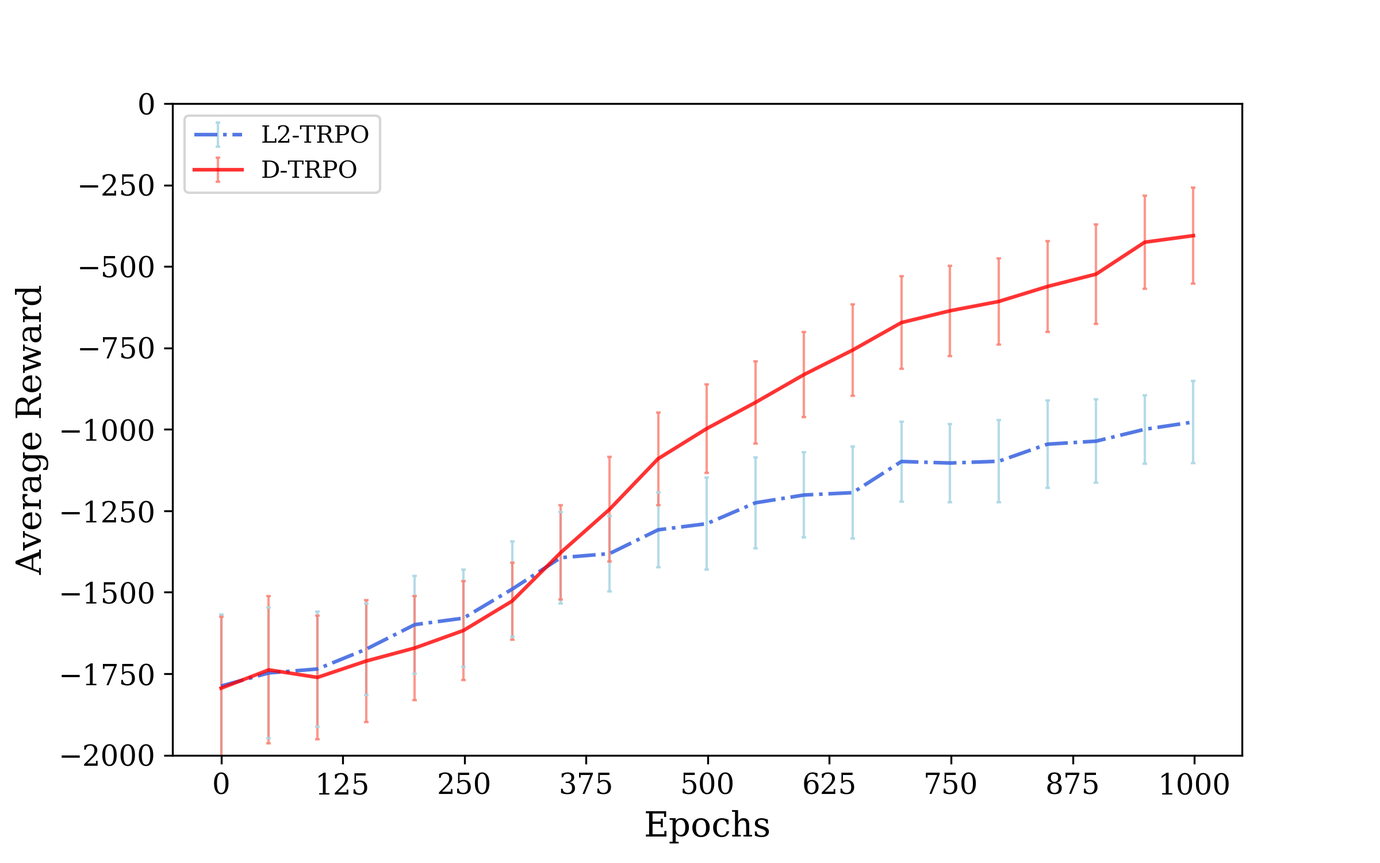
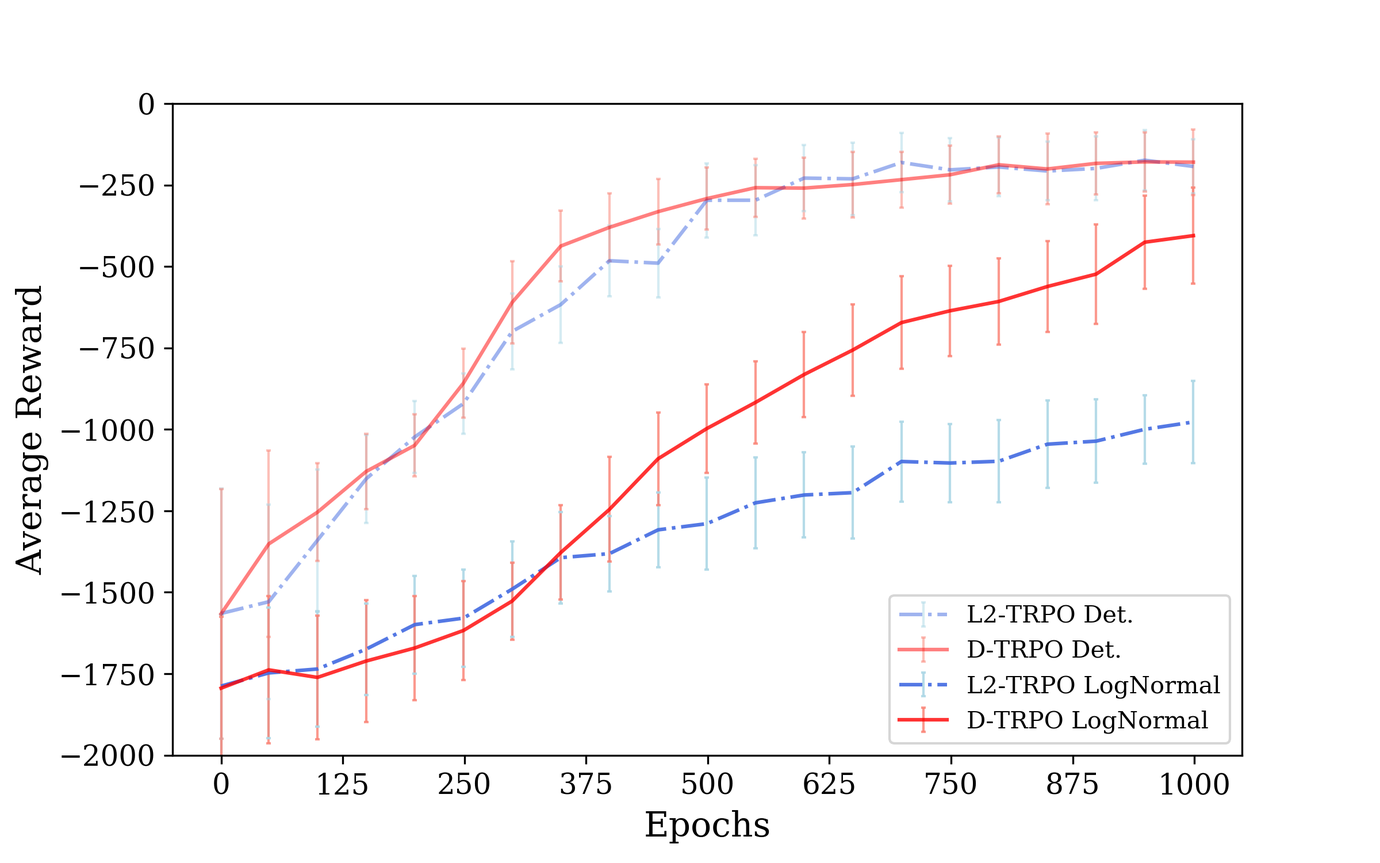
Section 6.4 Stochastic Environment

diff --git a/chapters/chapter6_results.tex b/chapters/chapter6_results.tex
@@ -45,20 +45,15 @@
                     \caption{An instance of the stochastic jump process that generates the amount of delay with $p = 0.7$. The average delay sampled is highlighted by the dashed line.}
                     \label{fig:delayp07_sampledelay}
                     
-                    \vspace{0.25cm}
-                    
                     \centering 
                     \includegraphics[width=11cm]{images/results/delayp06_sampledelay_1.png}
                     \caption{An instance of the stochastic jump process that generates the amount of delay with $p = 0.6$. The average delay sampled is highlighted by the dashed line.}
                     \label{fig:delayp06_sampledelay}
                     
-                    \vspace{0.25cm}
-                    
                     \centering
                     \includegraphics[width=11cm]{images/results/delayp05_sampledelay_1.png}
                     \caption{An instance of the stochastic jump process that generates the amount of delay with $p = 0.5$. The average delay sampled is highlighted by the dashed line.}
                     \label{fig:delayp05_sampledelay}
-                    
                 \end{figure}
                 
         \subsection{Baselines}
@@ -220,6 +215,8 @@
             % Compare the trained model on Stochastic Delays against the Min/Max Deterministic Delay
             We decided to test D-TRPO in a stochastic delay context, deploying the same settings for the networks as in the previous test. We train D-TRPO for 500 epochs composed of 5000 steps each, while each trajectory in the environment lasts for 250 steps, and simulating three different stochastic delay processes respectively with $p=0.7$, $p=0.6$ and $p=0.55$.
             \\\\
+            Figures \ref{fig:results_delayp07_1}, \ref{fig:results_delayp06_1} and \ref{fig:results_delayp05_1} illustrates the resulting training process, comparing them to D-TRPO and L2-TRPO trained with a constant delay closest to the average delay of each stochastic process, also shown in Figures \ref{fig:delayp07_sampledelay}, \ref{fig:delayp06_sampledelay} and \ref{fig:delayp05_sampledelay} respectively. Unfortunately, results are underwhelming compared with similar deterministic delays. Starting from $p=0.7$, which is compared to 3 steps of delays, D-TRPO shows an inconsistent learning process that converges to a lower average reward, even decreasing w.r.t. its peak performances. Stochastic delays with $p=0.6$ is compared to 5 steps of delays and they show similar results, while $p=0.5$ is compared with 10 steps of delay and shows very kin performances at 500 epochs, nevertheless D-TRPO with stochastic delays has already converged.
+            The reason behind inconsistent performances may be related to the higher variance the stochastic delay process induces in the input data, the extended states. While in deterministic delays we expect the extended state to have a fixed size and, consequently, the module to predict the same number of steps at each time-step, stochastic delays disrupt this process: the extended state has a different size and the same set of parameter must be able to predict for a different number of time steps. Thus, the module needs to be able to deal not only with all possible combinations of states and sequence of actions in the extended state, but also with all possible sizes of the extended state. 
             
             \begin{figure}[!b]
                 \includegraphics[width=15cm, keepaspectratio]{images/results/delayp07_comparisons_1.png}
@@ -244,72 +241,182 @@
         \subsection{Test Results}
         \label{sub:res_test_delays}
             % Describe the behaviour of the trained models when tested on different delays w.r.t. the one they were trained with, both DTRPO and L2TRPO
+            One of the strongest aspect of the proposed module is its compatibility with variable-sized input sequence, which does not only means it is possible to be trained natively with stochastic delays, but that it is also possible to test learnt model with different delay settings. In particular, we are interested in understanding how the models behave in the following two contexts:
+            \begin{itemize}
+                \setlength\itemsep{0.05em}
+                \item The module has been trained with a certain amount of deterministic delay, but it is deployed in a setting with lower or higher deterministic delay. 
+                \item The module has been trained with a certain amount of deterministic delay, but it is deployed in a stochastically delayed environment.
+            \end{itemize}
             
-            \begin{table}[!b]
-                \makebox[\textwidth][c]{
-                    \begin{tabular}{@{}ccccc@{}}
+            \subsubsection{Different Deterministic Delays Tests}
+            
+                \begin{table}[!b]
+                    \makebox[\textwidth][c]{
+                        \begin{tabular}{@{}ccccc@{}}
+                        \toprule
+                        \multicolumn{1}{c}{Test Setup} & 3-Steps Delay         & 5-Steps Delay        & 10-Steps Delay        & 15-Steps Delay        \\ \midrule
+                        3-Steps Delay                  & -168.13 $\pm$ 102.28  & -793.21 $\pm$ 160.0  & -1210.73 $\pm$ 83.8   & -1554.17 $\pm$ 96.41  \\
+                        5-Steps Delay                  & -171.12 $\pm$ 93.01   & -173.79 $\pm$ 92.2   & -1284.35 $\pm$ 85.96  & -1473.35 $\pm$ 110.78 \\
+                        10-Steps Delay                 & -256.76 $\pm$ 110.75  & -246.86 $\pm$ 117.75 & -368.42 $\pm$ 126.98  & -1342.76 $\pm$ 170.88 \\
+                        15-Steps Delay                 & -917.9 $\pm$ 87.04    & -902.22 $\pm$ 85.35  & -871.62 $\pm$ 102.85  & -956.13 $\pm$ 104.48  \\ \bottomrule
+                        \end{tabular}
+                    }
+                    \centering
+                    \caption{L2-TRPO trained on deterministic delays, denoted in the rows header, and Tested on deterministic delays, denoted in the columns header.}
+                    \label{tab:l2trpo_det_det}
+                \end{table}
+                
+                \begin{table}[!b]
+                    \makebox[\textwidth][c]{
+                        \begin{tabular}{@{}ccccc@{}}
+                        \toprule
+                        \multicolumn{1}{c}{Test Setup} & 3-Steps Delay         & 5-Steps Delay           & 10-Steps Delay          & 15-Steps Delay        \\ \midrule
+                        3-Steps Delay                  & -155.61  $\pm$ 79.02  & -831.79 $\pm$ 127.55    & -1223.33 $\pm$ 71.02    & -1631.23 $\pm$ 77.32  \\
+                        5-Steps Delay                  & -544.46  $\pm$ 105.17 & -175.36  $\pm$ 95.01    & -1161.79 $\pm$ 71.96    & -1578.53 $\pm$ 100.6  \\
+                        10-Steps Delay                 & -1120.52 $\pm$ 56.54  & -1054.0  $\pm$ 65.79    & -720.49  $\pm$ 93.85    & -1352.81 $\pm$ 105.87 \\
+                        15-Steps Delay                 & -1196.11 $\pm$ 66.82  & -1139.92 $\pm$ 83.66    & -1103.9  $\pm$ 76.88    & -912.31  $\pm$ 93.59  \\ \bottomrule
+                        \end{tabular}
+                    }
+                    \centering
+                    \caption{D-TRPO trained on deterministic delays, denoted in the rows header, and tested on deterministic delays, denoted in the columns header}
+                    \label{tab:dtrpo_det_det}
+                \end{table}
+                
+                Presented in Table \ref{tab:l2trpo_det_det}, L2-TRPO results are straightforward: each model trained with a certain amount of delay is also able to perform as well when tested on smaller delays, but it is not able to perform at all when tested on larger delays. This behaviour results from the definition of L2-TRPO loss function, which optimizes the module towards predictions of each unobserved state $s_{t-d+i}$, with $1 \leq i \leq d$, the Agent has traversed after the last observed state $s_{t-d}$, rather than only predicting the current unobserved state $s_t$. \newline
+                D-TRPO shows a similar behaviour but its performances on smaller delays, albeit better than on larger delays, are significantly affected. Results are shown in Table \ref{tab:dtrpo_det_det}. The main reason behind this behavior lies in the interaction between the Belief-Estimation module and the policy/value networks. During training, the module takes as input extended states of the same size at each time-step and the output belief representation handled to policy/value networks reflects this property in its structure. Conceptually speaking, changing the size of the extended states has the same effect on the belief representation as changing language in a translation: for example, if D-TRPO is trained with 10 steps of delay, the learnt belief representations are built in a "10-steps-delay" language. Policy and value networks learn the belief representations in this particular "language" and they are able to improve the Agent's performances during training. However, this test is specifically targeting this assumption by letting the models interact against environments with a different delays. The results is that the module is outputting a belief representation that may be correct, but it's in a different "language" than policy and value networks expect and the Agent is not able to act accordingly. \newline
+                At last, it is also possible to observe that, for both D-TRPO and L2-TRPO, in order to obtain the best possible performance we need to train the model with the same exact number of delay steps, thus confirming results from \pcite{delay:ssbm}, presented in Section \ref{subs:modelbasedapproach}.
+                
+            \subsubsection{Stochastic Delays Tests}
+            
+                \begin{table}[!b]
+                    \centering
+                    \begin{tabular}{@{}cccc@{}}
                     \toprule
-                    \multicolumn{1}{c}{Test Setup} & 3-Steps Delay         & 5-Steps Delay           & 10-Steps Delay          & 15-Steps Delay        \\ \midrule
-                    3-Steps Delay                  & -155.61  $\pm$ 79.02  & -1223.33 $\pm$ 71.02    & -1223.33 $\pm$ 71.02    & -1631.23 $\pm$ 77.32  \\
-                    5-Steps Delay                  & -544.46  $\pm$ 105.17 & -175.36  $\pm$ 95.01    & -1161.79 $\pm$ 71.96    & -1578.53 $\pm$ 100.6  \\
-                    10-Steps Delay                 & -1120.52 $\pm$ 56.54  & -1054.0  $\pm$ 65.79    & -720.49  $\pm$ 93.85    & -1352.81 $\pm$ 105.87 \\
-                    15-Steps Delay                 & -1196.11 $\pm$ 66.82  & -1139.92 $\pm$ 83.66    & -1103.9  $\pm$ 76.88    & -912.31  $\pm$ 93.59  \\ \bottomrule
+                    \multicolumn{1}{c}{Test Setup} & Delay P=0.7           & Delay P=0.6          & Delay P=0.55         \\ \midrule
+                    3-Steps Delay                  & -341.51 $\pm$ 131.67  & -609.37 $\pm$ 197.77 & -855.96 $\pm$ 238.89 \\
+                    5-Steps Delay                  & -222.01 $\pm$ 118.2   & -430.42 $\pm$ 195.56 & -715.21 $\pm$ 262.44 \\
+                    10-Steps Delay                 & -254.52 $\pm$ 147.07  & -306.1  $\pm$ 159.17 & -464.1  $\pm$ 235.38 \\
+                    15-Steps Delay                 & -896.88 $\pm$ 78.9    & -903.66 $\pm$ 83.73  & -913.02 $\pm$ 109.81 \\ \bottomrule
                     \end{tabular}
-                }
-                \centering
-                \caption{DTRPO Trained on Deterministic Delays, denoted in the header column, and Tested on Deterministic Delays, denoted in the header row.}
-            \end{table}
-            
-            \begin{table}[!b]
-                \centering
-                \begin{tabular}{@{}cccc@{}}
-                \toprule
-                \multicolumn{1}{c}{Test Setup} & Delay P=0.7           & Delay P=0.6            & Delay P=0.55          \\ \midrule
-                3-Steps Delay                  & -344.15 $\pm$ 149.93  & -610.1 $\pm$ 196.71    & -883.26 $\pm$ 226.18  \\
-                5-Steps Delay                  & -605.38 $\pm$ 112.22  & -659.11 $\pm$ 147.38   & -800.12 $\pm$ 186.03  \\
-                10-Steps Delay                 & -1100.71 $\pm$ 68.2   & -1055.5 $\pm$ 83.53    & -1045.56 $\pm$ 104.81 \\
-                15-Steps Delay                 & -1196.4 $\pm$ 72.23   & -1158.42 $\pm$ 81.97   & -1131.19 $\pm$ 96.66  \\ \bottomrule
-                \end{tabular}
-                \centering
-                \caption{DTRPO Trained on Deterministic Delays, denoted in the header column, and Tested on Stochastic Delays, denoted in the header row.}
-            \end{table}
-            
-            \begin{table}[!b]
-                \makebox[\textwidth][c]{
-                    \begin{tabular}{@{}ccccc@{}}
+                    \centering
+                    \caption{L2-TRPO trained on deterministic delays, denoted in the rows header, and tested on stochastic delays, denoted in the columns header.}
+                    \label{tab:l2trpo_det_stoch}
+                \end{table}
+                
+                \begin{table}[!b]
+                    \centering
+                    \begin{tabular}{@{}cccc@{}}
                     \toprule
-                    \multicolumn{1}{c}{Test Setup} & 3-Steps Delay         & 5-Steps Delay        & 10-Steps Delay        & 15-Steps Delay        \\ \midrule
-                    3-Steps Delay                  & -168.13 $\pm$ 102.28  & -793.21 $\pm$ 160.0  & -1210.73 $\pm$ 83.8   & -1554.17 $\pm$ 96.41  \\
-                    5-Steps Delay                  & -171.12 $\pm$ 93.01   & -173.79 $\pm$ 92.2   & -1284.35 $\pm$ 85.96  & -1473.35 $\pm$ 110.78 \\
-                    10-Steps Delay                 & -256.76 $\pm$ 110.75  & -246.86 $\pm$ 117.75 & -368.42 $\pm$ 126.98  & -1342.76 $\pm$ 170.88 \\
-                    15-Steps Delay                 & -917.9 $\pm$ 87.04    & -902.22 $\pm$ 85.35  & -871.62 $\pm$ 102.85  & -956.13 $\pm$ 104.48  \\ \bottomrule
+                    \multicolumn{1}{c}{Test Setup} & Delay P=0.7           & Delay P=0.6            & Delay P=0.55          \\ \midrule
+                    3-Steps Delay                  & -344.15 $\pm$ 149.93  & -610.1 $\pm$ 196.71    & -883.26 $\pm$ 226.18  \\
+                    5-Steps Delay                  & -605.38 $\pm$ 112.22  & -659.11 $\pm$ 147.38   & -800.12 $\pm$ 186.03  \\
+                    10-Steps Delay                 & -1100.71 $\pm$ 68.2   & -1055.5 $\pm$ 83.53    & -1045.56 $\pm$ 104.81 \\
+                    15-Steps Delay                 & -1196.4 $\pm$ 72.23   & -1158.42 $\pm$ 81.97   & -1131.19 $\pm$ 96.66  \\ \bottomrule
                     \end{tabular}
-                }
-                \centering
-                \caption{L2TRPO Trained on Deterministic Delays, denoted in the header column, and Tested on Deterministic Delays, denoted in the header row.}
-            \end{table}
-            
-            \begin{table}[!b]
-                \centering
-                \begin{tabular}{@{}cccc@{}}
-                \toprule
-                \multicolumn{1}{c}{Test Setup} & Delay P=0.7           & Delay P=0.6          & Delay P=0.55         \\ \midrule
-                3-Steps Delay                  & -341.51 $\pm$ 131.67  & -609.37 $\pm$ 197.77 & -855.96 $\pm$ 238.89 \\
-                5-Steps Delay                  & -222.01 $\pm$ 118.2   & -430.42 $\pm$ 195.56 & -715.21 $\pm$ 262.44 \\
-                10-Steps Delay                 & -254.52 $\pm$ 147.07  & -306.1  $\pm$ 159.17 & -464.1  $\pm$ 235.38 \\
-                15-Steps Delay                 & -896.88 $\pm$ 78.9    & -903.66 $\pm$ 83.73  & -913.02 $\pm$ 109.81 \\ \bottomrule
-                \end{tabular}
-                \centering
-                \caption{L2TRPO Trained on Deterministic Delays, denoted in the header column, and Tested on Stochastic Delays, denoted in the header row.}
-            \end{table}
+                    \centering
+                    \caption{D-TRPO trained on deterministic delays, denoted in the rows header, and tested on stochastic delays, denoted in the columns header.}
+                    \label{tab:dtrpo_det_stoch}
+                \end{table}
+                
+                L2-TRPO confirms results obtained in the previous test in Table \ref{tab:l2trpo_det_stoch}. When a L2-TRPO model is tested with a stochastic delay process whose samples are generally less than or equal to the training constant delay, the module is able to build precise state predictions and the model is able to perform well, in some cases even close to the performances obtained when tested on deterministic delays. Lower performances across the tests are expected: the stochastic delay process is able to sample delays that are higher than the constant delay the model is trained with, thus the module is not able to provide a precise prediction at each time-step. \newline
+                As expected, Table \ref{tab:dtrpo_det_stoch} shows that D-TRPO is suffering from the same issues discovered in the previous test. Performances are higher when the stochastic delay processes samples delays that are closer to the one the model has been trained with. While the 3-steps delay model is performing as well as the L2-TRPO counterpart, performances quickly decrease with both larger training delays and more difficult stochastic delay processes.
             
     \newpage
     \section{Stochastic Environment}
     \label{results:stochastic}
         % DTRPO vs L2TRPO
+        This last Section is dedicated to experiments in a stochastic environment. It is divided in to two sub-section: while Section \ref{sub:stoch_noise_impl} is concerned with explaining the stochastic environment implementation, Section \ref{sub:stoch_env_res} discusses the obtained results. We tested D-TRPO and L2-TRPO, both with the same hyperparameters explained in Section \ref{results:deterministic} in an environment affected by 5 steps of delay. Models are trained for 1000 epochs, each of them composed by 5000 steps for a total of 5 million steps. Single trajectories last for 250 steps. 
         
         \subsection{Stochastic Noise Implementation}
+        \label{sub:stoch_noise_impl}
         % Explain each noise
+            Stochastic environment implementation is reached by adding a stochastic perturbation to the sequence of actions chosen by the Agent while interacting in the Inverted Pendulum environment. In practice, at each time-step $t$, the Agent selects an action $a_t$, a perturbation $\epsilon_t$ is sampled from a probability distribution and the action executed in the environment is $a_t + \epsilon_t$. We implemented perturbations sampled from the following probability distributions: Beta distribution with $\alpha=2$ and $\beta=2$, referred to as Quadratic; Beta distribution with $\alpha=0.5$ and $\beta=0.5$, referred to as U-Shaped; Beta distribution with $\alpha=8$ and $\beta=2$; LogNormal distribution with zero mean and both 0.1 and 1 standard deviation and a Triangular distribution in [-2, 2] with mode at 1. The shape of each distributions is shown in Figure \ref{fig:noises_all}.
         
+            \begin{figure}
+                \vspace{4.0cm}
+                \centering
+                \begin{subfigure}[b]{0.45\textwidth}
+                    \centering
+                    \includegraphics[width=\textwidth]{images/results/noises_beta_dist.png}
+                    \caption{Shape of a Beta distribution with $\alpha=8$ and $\beta=2$.}
+                    \label{fig:noises_beta_dist}
+                \end{subfigure}
+                \hfill
+                \begin{subfigure}[b]{0.45\textwidth}
+                    \centering
+                    \includegraphics[width=\textwidth]{images/results/noises_quad_dist.png}
+                    \caption{Shape of a Quadratic distribution (Beta with $\alpha=2$ and $\beta=2$).}
+                    \label{fig:noises_quad_dist}
+                \end{subfigure}
+                \hfill
+                \begin{subfigure}[b]{0.45\textwidth}
+                    \centering
+                    \includegraphics[width=\textwidth]{images/results/noises_ush_dist.png}
+                    \caption{Shape of an U-Shaped distribution (Beta with $\alpha=0.5$ and $\beta=0.5$).}
+                    \label{fig:noises_ush_dist}
+                \end{subfigure}
+                \hfill
+                \begin{subfigure}[b]{0.45\textwidth}
+                    \centering
+                    \includegraphics[width=\textwidth]{images/results/noises_logns_dist.png}
+                    \caption{Shape of a LogNormal distribution with STD=0.1.}
+                    \label{fig:noises_logns_dist}
+                \end{subfigure}
+                \hfill
+                \begin{subfigure}[b]{0.45\textwidth}
+                    \centering
+                    \includegraphics[width=\textwidth]{images/results/noises_logn_dist.png}
+                    \caption{Shape of a LogNormal distribution with STD=1.0.}
+                    \label{fig:noises_logn_dist}
+                \end{subfigure}
+                \hfill
+                \begin{subfigure}[b]{0.45\textwidth}
+                    \centering
+                    \includegraphics[width=\textwidth]{images/results/noises_tri_dist.png}
+                    \caption{Shape of a Triangular distribution, with mode at 1.}
+                    \label{fig:noises_tri_dist}
+                \end{subfigure}
+                \caption{Shape of each Perturbation distribution. }
+                \label{fig:noises_all}
+            \end{figure}
+            
         \subsection{Results}
+        \label{sub:stoch_env_res}
         % Comment results
+            From Figure \ref{fig:results_beta_1} to Figure \ref{fig:results_tri_1} training results are shown along with a comparison against D-TRPO and L2-TRPO trained with the same delay in the deterministic environment, in order to observe the impact of each stochastic perturbation. Across all the stochastic perturbations, it is possible to observe a great impact in the overall performance of both D-TRPO and L2-TRPO when compared to their deterministic environment counterpart. However, it is possible to identify two different behaviour across all tests:
+            \begin{itemize}
+                \setlength\itemsep{0.05em}
+                \item Both D-TRPO and L2-TRPO heavily suffers from the presence of the stochastic perturbation, as in the case of LogNormal with STD=1.0, U-Shaped and Triangular perturbations, and their performances are aligned;
+                \item Even if the decrease of performances is evident for both algorithms, D-TRPO shows a systematic improvement w.r.t. L2-TRPO, such in the cases of Beta(8,2), Quadratic and LogNormal with STD=0.1 perturbations.
+            \end{itemize}
+            The latter behaviour is promising, since it reveals that D-TRPO is able to significantly outperform L2-TRPO when the stochastic perturbation is not too strong, which in turn means that the MAF network approach reveals to be beneficial w.r.t. the more standard approach of state prediction in the case of stochastic environments. 
+            
+            \begin{figure}[hbtp]
+                \centering
+                \includegraphics[width=11cm, keepaspectratio]{images/results/noises_beta_comparison_1.png}
+                \caption{Training results obtained with deterministic delay of 5 steps and a Beta(8,2) perturbation.}
+                \label{fig:results_beta_1}
+                
+                \includegraphics[width=11cm, keepaspectratio]{images/results/noises_quad_comparison_1.png}
+                \caption{Training results obtained with deterministic delay of 5 steps and a Quadratic perturbation.}
+                \label{fig:results_quad_1}
+                
+                \includegraphics[width=11cm, keepaspectratio]{images/results/noises_ush_comparison_1.png}
+                \caption{Training results obtained with deterministic delay of 5 steps and a U-Shaped perturbation.}
+                \label{fig:results_ush_1}
+            \end{figure}
+            
+            \begin{figure}[hbtp]
+                \centering
+                \includegraphics[width=11cm, keepaspectratio]{images/results/noises_logns_comparison_1.png}
+                \caption{Training results obtained with deterministic delay of 5 steps and a LogNormal perturbation with STD=0.1.}
+                \label{fig:results_logns_1}
+                
+                \includegraphics[width=11cm, keepaspectratio]{images/results/noises_logn_comparison_1.png}
+                \caption{Training results obtained with deterministic delay of 5 steps and a LogNormal perturbation with STD=1.0.}
+                \label{fig:results_logn_1}
+                
+                \includegraphics[width=11cm, keepaspectratio]{images/results/noises_tri_comparison_1.png}
+                \caption{Training results obtained with deterministic delay of 5 steps and a Triangular perturbation.}
+                \label{fig:results_tri_1}
+            \end{figure}

diff --git a/chapters/chapter3_stateoftheart.tex b/chapters/chapter3_stateoftheart.tex
@@ -515,7 +515,7 @@
                 As it can be observed, the state representation proposed by \pcite{delay:ssbm} is the core output $o_{t,p}$, which is not an element of the State Space $\mathbf{S}$, but rather a vector built by the p-th Gated Recurrent Unit. The idea behind the choice of not using a predicted element of the state space, which is also already available as $s_{t,p}$ in this algorithm, is that it is possible to compress useful information about the current state in a finite vector used as input to the policy $\pi$. In this way, the input space of the policy function is not the State Space $\mathbf{S}$. \newline
                 It is important to highlight this concept because it is closely related to the scope of this research, which also tries to compress information about the current state in a finite vector, as it is presented in Chapter \ref{chp:ow}.
                 \\\\
-                In order for the core output $o_{t,p}$ to represent useful information, the whole network described needs to be trained accordingly. In fact, the predictive model constituted by GRUs and the learnt state-transition probability function $\bar{p}$ is trained against the actual dynamics of the environment: the sequence of predicted states $(s_{t, 1}, s_{t, 2}, ..., s_{t, p})$ is compared to the actually experienced sequence of state $(s_{t+1}, s_{t+2}, ..., s_{t+p}$ in a Regression fashion. In this way, the core hidden state $h$ and core output $o$ are driven towards compressing useful information about the current unknown state $s_{t+d_a}$ in which the Agent will execute the chosen action $a_t$. In this regards, experiments have highlighted how the best choice of the hyperparameter $p$ is exactly the execution delay $d_a$. This is also intuitively reasonable: in the case in which $p = d_a$, at each time-step, the Agent is trained on the entire sequence of states that separates it from the state in which it will execute action $a_t$, thus resulting in a more accurate prediction $s_{t, p}$, which in turn is translated in a more meaningful core output $o_{t, p}$. The other two possible cases are: $p < d_a$, the Agent never learns to predict the current state $s_t$ and its estimates refers to an earlier, different, state $s_{t,p}$; $p > d_a$, the Agent learns to predict more states than necessary, making the overall network more complex and the $s_{t, d_a}$ prediction less accurate. These conclusions are also confirmed by the results of this research (Chapter \ref{chp:results}).
+                In order for the core output $o_{t,p}$ to represent useful information, the whole network described needs to be trained accordingly. In fact, the predictive model constituted by GRUs and the learnt state-transition probability function $\bar{p}$ is trained against the actual dynamics of the environment: the sequence of predicted states $(s_{t, 1}, s_{t, 2}, ..., s_{t, p})$ is compared to the actually experienced sequence of state $(s_{t+1}, s_{t+2}, ..., s_{t+p}$ in a Regression fashion. In this way, the core hidden state $h$ and core output $o$ are driven towards compressing useful information about the current unknown state $s_{t+d_a}$ in which the Agent will execute the chosen action $a_t$. In this regards, experiments have highlighted how the best choice of the hyperparameter $p$ is exactly the execution delay $d_a$. This is also intuitively reasonable: in the case in which $p = d_a$, at each time-step, the Agent is trained on the entire sequence of states that separates it from the state in which it will execute action $a_t$, thus resulting in a more accurate prediction $s_{t, p}$, which in turn is translated in a more meaningful core output $o_{t, p}$. The other two possible cases are: $p < d_a$, the Agent never learns to predict the current state $s_t$ and its estimates refers to an earlier, different, state $s_{t,p}$; $p > d_a$, the Agent learns to predict more states than necessary, making the overall network more complex and the $s_{t, d_a}$ prediction less accurate. These conclusions are also confirmed by the results of this research shown in Section \ref{sub:res_test_delays}.
                 
                 \begin{figure}
                     \centering

diff --git a/chapters/chapter7_conclusions.tex b/chapters/chapter7_conclusions.tex
@@ -1,6 +1,26 @@
 \chapter{Conclusions and Future Research Directions}
+    \section{Conclusions}
+    \label{conc:conc}
+        % What we did:
+        %   - A new heuristic approach to tackle delays in RL
+        %       - From Model-Based
+        %       - Using POMDP literature, in particular PSR paradigm
+        %       - Applying neural density estimation for the first time
+        % What we discovered:
+        %   - Which are the most important parameters for the new approach
+        %   - The approach is sound, Deterministic Delay in Deterministic Environment shows
+        %   - However we encountered two major problems:
+        %       - While L2-TRPO is able to perform well on stochastic delays, D-TRPO has structural problems
+        %       - Stochastic perturbations
+        
+        In this thesis, we designed and implemented a new structured modular network to be deployed along side existing Reinforcement Learning algorithm, without modifications, in order to make them able to cope with the presence of delays in the environment. We adopted the existing Model-Based approach from the DMDP literature so to correctly define the interaction between our module and the deployed RL algorithm. The structure of the module has been inspired by POMDP literature, applying the PSR paradigm directly in a RL context. However, in light of the recent arise of Attention networks, we decided to implement the Self-Attention mechanism contained in the Transformer architecture inside our module, as a more optimized and parallel-enabled variant of the standard Recurrent mechanisms. At last, a MAF network has been used to drive the the output of the model towards a finite representation of the belief distribution of the current state, thus implementing a heuristic approach to tackle the problem of delays. By deploying the module along side TRPO algorithm, we defined a new algorithm, D-TRPO. \newline
+        
+        
+    \section{Future Work}
+    \label{conc:future}
     %   - Implement a solution that updates both Policy and Belief Module at the same time
     %       such as PSD and RPSP do. 
     %   - Test of different environments type to show strengths/weaknesses of the approach
     %   - Using the entire Transformer other than only the Encoder
     %   - Anonymous Delays applications
+    %   - Repair the Belief representation distribution

diff --git a/chapters/chapter4_preliminaries.tex b/chapters/chapter4_preliminaries.tex
@@ -108,7 +108,7 @@
                     \mathbf{L^{\pi_\theta}(\pi_{\theta_0})} &= \mathbf{R^{\pi_{\theta_0}}}\\
                     \nabla_\theta \mathbf{L^{\pi_\theta}(\pi_\theta)} \biggr\rvert_{\theta = \theta_0} &= \nabla_\theta \mathbf{R^{\pi_\theta}} \biggr\rvert_{\theta = \theta_0}\nonumber
                 \end{align}
-                
+
                 for any parameter vector values $\theta_0$. This result is extremely remarkable: the approximation function $\mathbf{L^{\pi}}$ is equivalent to the approximated function $\mathbf{R^{\pi}}$ in first order derivation. Thus, for any sufficiently small step in the Policy Space such that $\mathbf{L^{\pi}}$ improves, improvement for $\mathbf{R^{\pi}}$ is guaranteed. Even more, $\mathbf{L^{\pi}}$ has been built by removing the complex dependence between $\pi$ and $\rho_{\pi}(s)$ that characterizes the definition of $\mathbf{R^{\pi}}$.
                 \\\\
                 % Theoretical Results from Schulman
